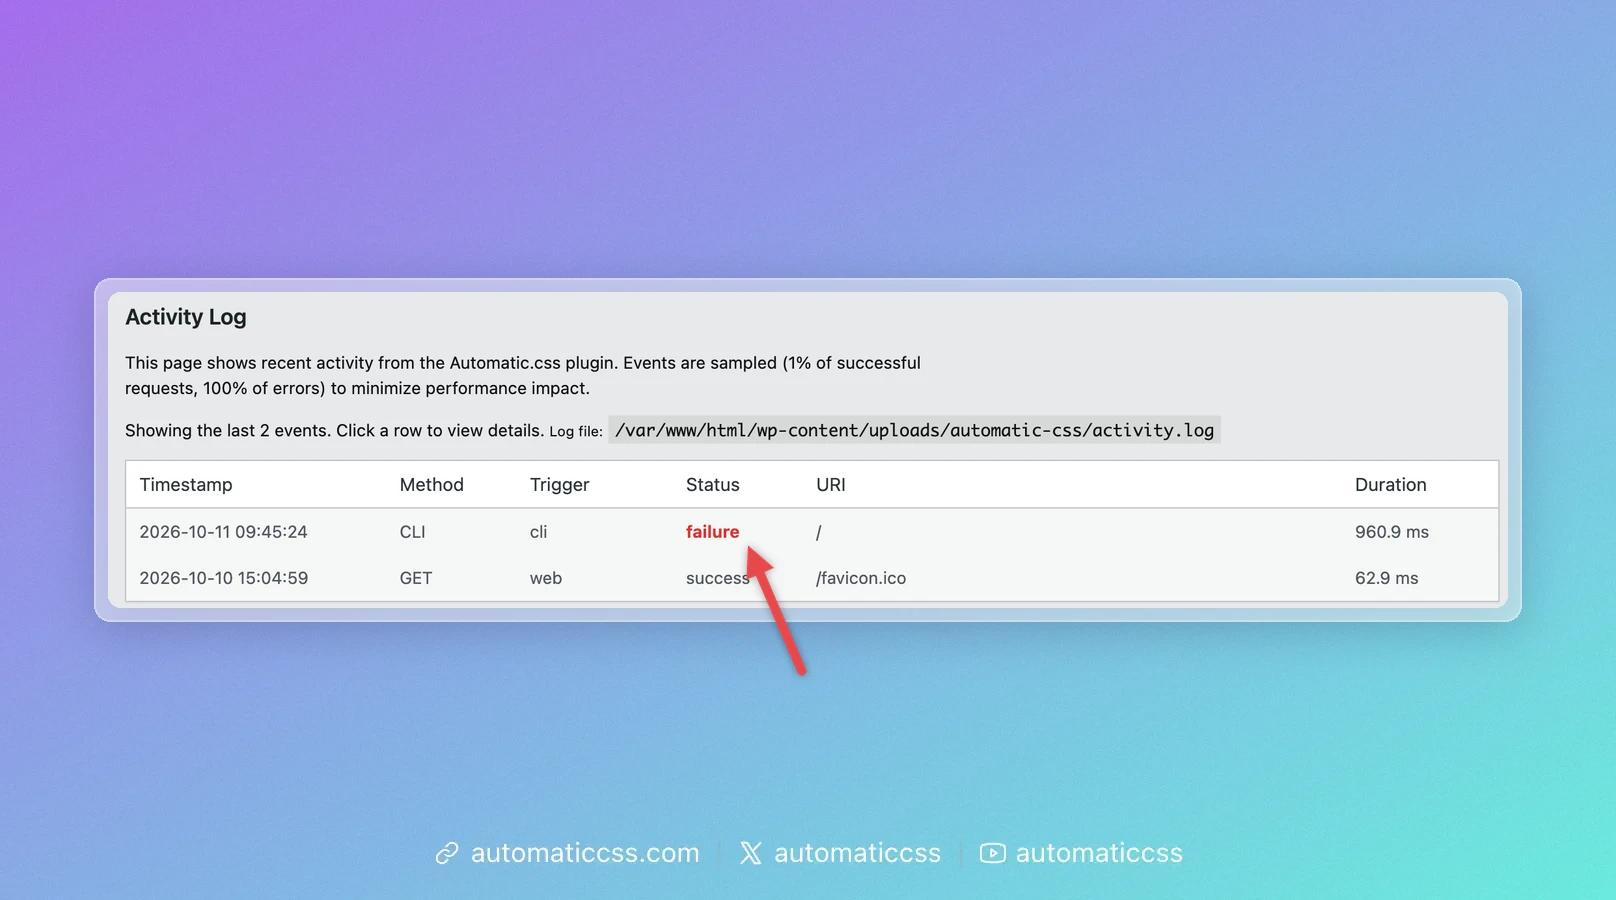
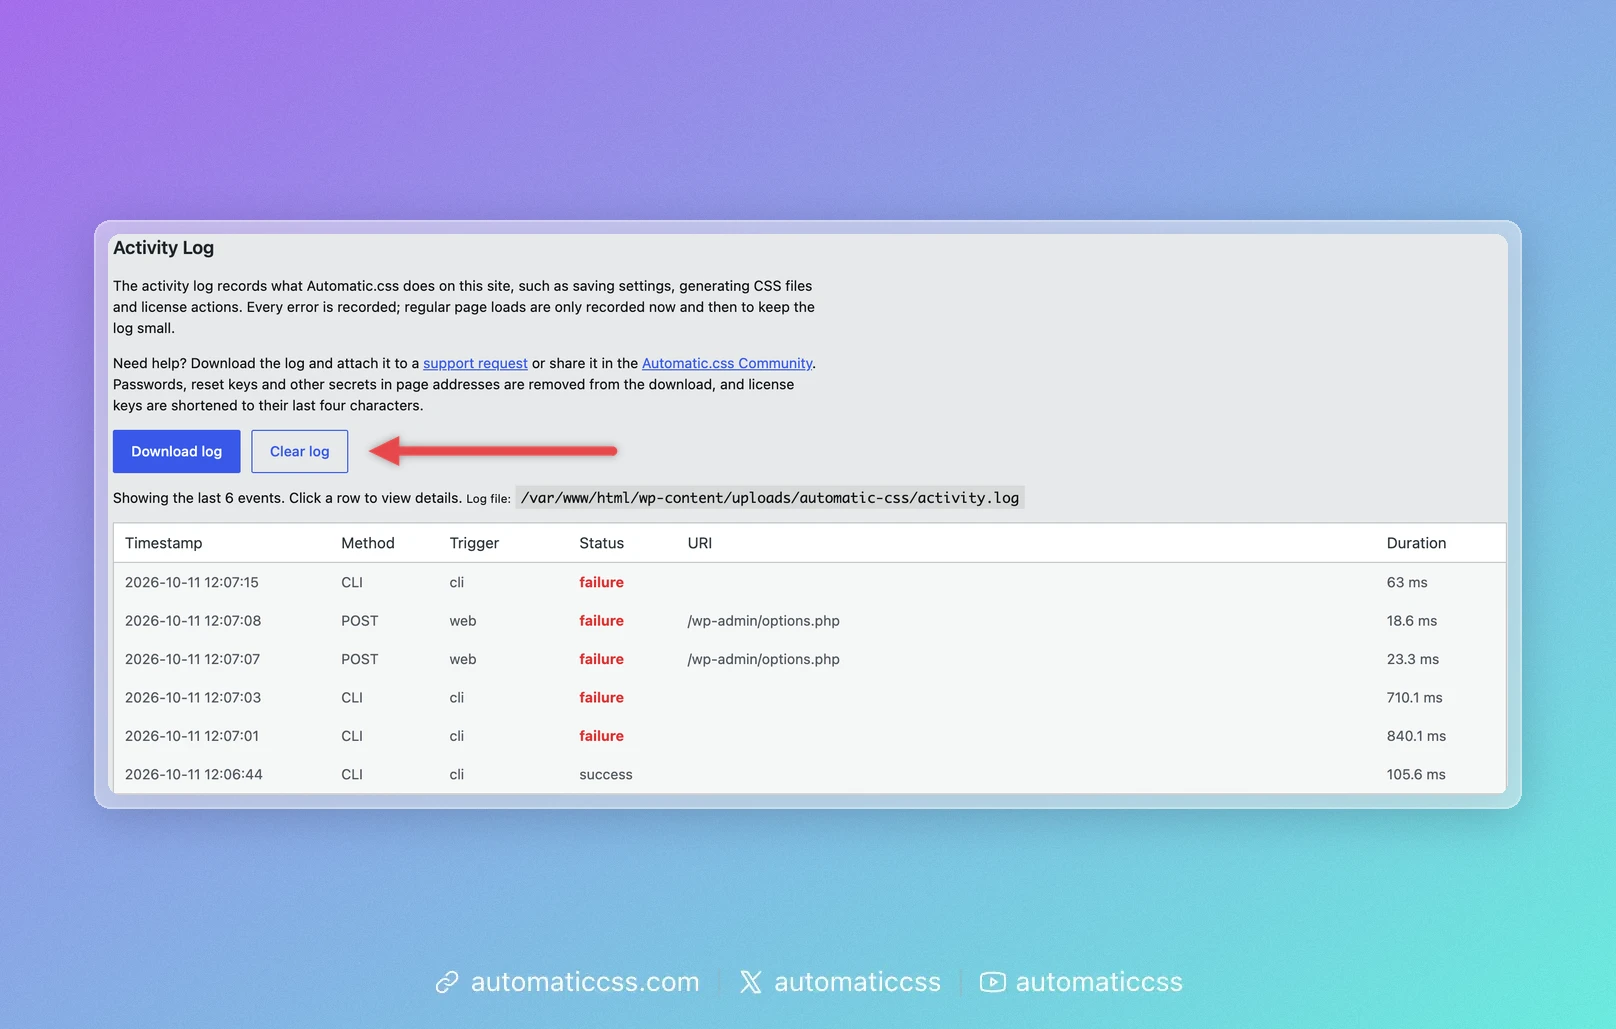
docs(activity-log): download, clear and license errors (#16)
* docs(activity-log): download, clear and license errors

Claude-Session: https://claude.ai/code/session_01NVkGuX9ycnrnabPxrBAZXN

* docs(activity-log): mark what 4.0.2 adds

Claude-Session: https://claude.ai/code/session_01NVkGuX9ycnrnabPxrBAZXN

---------

diff --git a/docs/setup/activity-log.md b/docs/setup/activity-log.md
@@ -1,9 +1,10 @@
 ---
 title: Activity Log
 sidebar_position: 60
+updated: 4.0.2
 ---
 
-Automatic.css keeps an activity log of what it does, for example generating your CSS files. When something does not work, for example your changes don't show up on the site, the activity log is the first place to look. It tells you whether Automatic.css ran into an error and what the error was.
+Automatic.css keeps an activity log of what it does, for example generating your CSS files or activating your license. When something does not work, for example your changes don't show up on the site or your license won't activate, the activity log is the first place to look. It tells you whether Automatic.css ran into an error and what the error was.
 
 ## Open the activity log
 
@@ -12,7 +13,7 @@ Automatic.css keeps an activity log of what it does, for example generating your
 
 You need to be an administrator to see it.
 
-![The Activity Log tab with one failed event, marked in red, and one successful event](img/activity-log-tab.webp)
+![The Activity Log tab with the Download log and Clear log buttons above a list of failed events, marked in red](img/activity-log-tab.webp)
 
 The tab shows the last 50 events, newest first:
 
@@ -26,7 +27,7 @@ The tab shows the last 50 events, newest first:
 | **Duration** | How long Automatic.css took. |
 
 :::tip Only some successful events are logged
-To keep your site fast, Automatic.css logs every error but only about 1 in 100 successful requests. A short log with few entries is normal and means nothing went wrong.
+Automatic.css logs every error, but only some of the requests that went fine, so the log stays small and your site stays fast. A short log with few entries is normal and means nothing went wrong.
 :::
 
 ## See what went wrong
@@ -42,16 +43,39 @@ The arrows (▼ and ▶) fold and unfold the sections. Sections such as `flags` 
 
 In the example above, the Global SCSS uses a variable that doesn't exist (`$brand-colour`), so the CSS could not be generated. Fix the code in the dashboard, save, and the next event shows `success`.
 
-## Send it to support
+### License errors <Since version="4.0.2" /> {#license-errors}
 
-If you can't solve the error yourself, [contact support](https://digitalgravy.co/support) and include:
+When activating or deactivating your license fails, the event shows `"key": "license"` under `failure_messages`. The `message` is the same one you saw on the **License** tab. The other fields tell support why it failed:
 
-- a screenshot of the **Event Details** window with the `result` section unfolded, and
-- the date and time of the event, and what you did just before it.
+![The Event Details window of a failed license activation: the key is license and the Cloudflare Ray ID is listed](img/activity-log-license-failure.webp)
 
-If support asks for the whole log, send the file shown next to **Log file** on the Activity Log tab (`activity.log`). You can download it with your host's file manager or SFTP.
+| Field | What it means |
+| --- | --- |
+| `action` | `activate_license` or `deactivate_license`. |
+| `source` | Where you started it: `dashboard` (the **License** tab), `cli` (WP-CLI), or `legacy_release` (Automatic.css removing the old Automatic.css 3 license after an upgrade). |
+| `license_key` | Only the last four characters of the key, for example `…cf00`. |
+| `edd_error` | The reason the licensing server gave, for example `no_activations_left` or `expired`. |
+| `http_code` | Shown when the licensing server answered with an error, for example `403`. |
+| `cf_ray` | Shown when Cloudflare blocked the request. Support needs this Ray ID to find the block. |
+| `transport_error` | Shown when your site could not reach the licensing server at all, for example because of a firewall or a timeout. |
 
-The log contains technical details about your site, such as addresses and Automatic.css settings. Only share it with support.
+## Share it to get help <Since version="4.0.2" /> {#share-it-to-get-help}
+
+If you can't solve the error yourself:
+
+1. Click **Download log** on the Activity Log tab. Your browser saves a file named like `acss-activity-log-2026-10-11.log`.
+2. Attach the file to a [support request](https://digitalgravy.co/support/), or share it in the [Automatic.css Community](https://community.automaticcss.com/).
+3. Add the date and time of the problem and what you did just before it.
+
+Before the file is downloaded, Automatic.css removes passwords, password reset keys, logins, tokens and nonces from page addresses. License keys are shortened to their last four characters. The file still contains technical details about your site, such as page addresses and your Automatic.css settings. If you'd rather not share those in public, send the log through a support request instead of the Community.
+
+:::note Older versions
+Automatic.css versions without the **Download log** button keep the file in `wp-content/uploads/automatic-css/activity.log`. You can download it with your host's file manager or SFTP.
+:::
+
+## Clear the log <Since version="4.0.2" /> {#clear-the-log}
+
+Click **Clear log** and confirm. This empties the log, including older rotated files, and cannot be undone. Clearing helps when you want to reproduce a problem: clear the log, repeat the steps that fail, and then download a log that only contains that attempt.
 
 ## If the log is empty or missing
 
